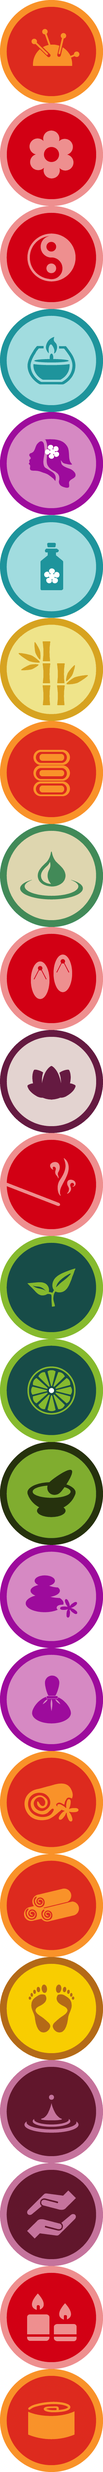
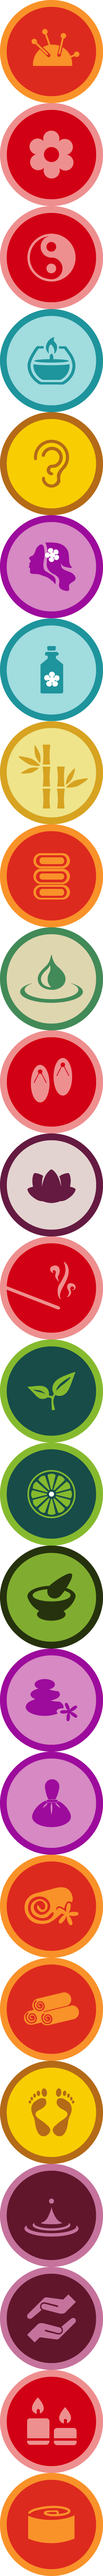
corregido icono pendiente y ajustados a todas las vistas

diff --git a/static/css/estilos.css b/static/css/estilos.css
@@ -1,1 +1,1 @@
-.btn{border:none;border-radius:4px;color:#fff;box-shadow:inset 0 -2px rgba(0,0,0,0.3);text-decoration:none;box-sizing:border-box;-webkit-box-sizing:border-box;-moz-box-sizing:border-box;transition:.2s;-webkit-transition:.2s;}.btn:hover{color:#fff}.btn-big{font-size:1.3em;font-weight:600;letter-spacing:-.01em;padding:.6em .75em}.btn-small{font-size:15px;font-weight:600;height:35px;letter-spacing:-.01em;padding:.6em .75em}.btn-Green{background:#7dcd40}.btn-Red{background:#ff4842}.btn-label{display:inline-block;margin:.7em 0 0 1em;padding:.7em 0 .7em 1em;border-left:dotted 1px #808080}.agujasIntradermicas-big,.amma-big,.ampuku-big,.aromaterapia-big,.champi-big,.cosmeticaNatural-big,.crecimientoPersonal-big,.cyriax-big,.drenajeLinfatico-big,.estiramientosThai-big,.floresBach-big,.icon-big,.kinergeticsReset-big,.kinesiologiaIntegrada-big,.naturopatia-big,.piedras-big,.pindas-big,.quiromasaje-big,.quiromasajeSuperior-big,.reflexologia-big,.registrosAkashicos-big,.reiki-big,.shiatsuFacial-big,.vendajeNeuromuscular-big{display:inline-block;background-repeat:no-repeat;background-image:url("../img/icons-big.png")}.agujasIntradermicas-big{background-position:0 0;width:300px;height:300px}.amma-big{background-position:0 -300px;width:300px;height:300px}.ampuku-big{background-position:0 -600px;width:300px;height:300px}.aromaterapia-big{background-position:0 -900px;width:300px;height:300px}.champi-big{background-position:0 -1200px;width:300px;height:300px}.cosmeticaNatural-big{background-position:0 -1500px;width:300px;height:300px}.crecimientoPersonal-big{background-position:0 -1800px;width:300px;height:300px}.cyriax-big{background-position:0 -2100px;width:300px;height:300px}.drenajeLinfatico-big{background-position:0 -2400px;width:300px;height:300px}.estiramientosThai-big{background-position:0 -2700px;width:300px;height:300px}.floresBach-big{background-position:0 -3000px;width:300px;height:300px}.icon-big{background-position:0 -3300px;width:300px;height:300px}.kinergeticsReset-big{background-position:0 -3600px;width:300px;height:300px}.kinesiologiaIntegrada-big{background-position:0 -3900px;width:300px;height:300px}.naturopatia-big{background-position:0 -4200px;width:300px;height:300px}.piedras-big{background-position:0 -4500px;width:300px;height:300px}.pindas-big{background-position:0 -4800px;width:300px;height:300px}.quiromasaje-big{background-position:0 -5100px;width:300px;height:300px}.quiromasajeSuperior-big{background-position:0 -5400px;width:300px;height:300px}.reflexologia-big{background-position:0 -5700px;width:300px;height:300px}.registrosAkashicos-big{background-position:0 -6000px;width:300px;height:300px}.reiki-big{background-position:0 -6300px;width:300px;height:300px}.shiatsuFacial-big{background-position:0 -6600px;width:300px;height:300px}.vendajeNeuromuscular-big{background-position:0 -6900px;width:300px;height:300px}.agujasIntradermicas-small,.amma-small,.ampuku-small,.aromaterapia-small,.champi-small,.cosmeticaNatural-small,.crecimientoPersonal-small,.cyriax-small,.drenajeLinfatico-small,.estiramientosThai-small,.floresBach-small,.kinergeticsReset-small,.kinesiologiaIntegrada-small,.moxibustion-small,.naturopatia-small,.piedras-small,.pindas-small,.quiromasaje-small,.quiromasajeSuperior-small,.reflexologia-small,.registrosAkashicos-small,.reiki-small,.shiatsuFacial-small,.vendajeNeuromuscular-small{display:inline-block;background-repeat:no-repeat;background-image:url("../img/icons-small.png")}.agujasIntradermicas-small{background-position:0 0;width:160px;height:160px}.amma-small{background-position:0 -160px;width:160px;height:160px}.ampuku-small{background-position:0 -320px;width:160px;height:160px}.aromaterapia-small{background-position:0 -480px;width:160px;height:160px}.champi-small{background-position:0 -640px;width:160px;height:160px}.cosmeticaNatural-small{background-position:0 -800px;width:160px;height:160px}.crecimientoPersonal-small{background-position:0 -960px;width:160px;height:160px}.cyriax-small{background-position:0 -1120px;width:160px;height:160px}.drenajeLinfatico-small{background-position:0 -1280px;width:160px;height:160px}.estiramientosThai-small{background-position:0 -1440px;width:160px;height:160px}.floresBach-small{background-position:0 -1600px;width:160px;height:160px}.kinergeticsReset-small{background-position:0 -1760px;width:160px;height:160px}.kinesiologiaIntegrada-small{background-position:0 -1920px;width:160px;height:160px}.moxibustion-small{background-position:0 -2080px;width:160px;height:160px}.naturopatia-small{background-position:0 -2240px;width:160px;height:160px}.piedras-small{background-position:0 -2400px;width:160px;height:160px}.pindas-small{background-position:0 -2560px;width:160px;height:160px}.quiromasaje-small{background-position:0 -2720px;width:160px;height:160px}.quiromasajeSuperior-small{background-position:0 -2880px;width:160px;height:160px}.reflexologia-small{background-position:0 -3040px;width:160px;height:160px}.registrosAkashicos-small{background-position:0 -3200px;width:160px;height:160px}.reiki-small{background-position:0 -3360px;width:160px;height:160px}.shiatsuFacial-small{background-position:0 -3520px;width:160px;height:160px}.vendajeNeuromuscular-small{background-position:0 -3680px;width:160px;height:160px}.Newsletter{padding:30px 0}.Newsletter-formTitle{font-family:arial;display:inline-block;max-width:50%;vertical-align:top;font-size:1.125em;font-size:400;margin:0;padding:0 15px 0 84px;box-sizing:border-box;-webkit-box-sizing:border-box;-moz-box-sizing:border-box}.Newsletter-formContainer{display:inline-block;vertical-align:top;font-size:0}.Newsletter-input{height:37px;font-size:13px;width:32%;margin-top:10px;margin-right:3%;box-sizing:border-box;-webkit-box-sizing:border-box;-moz-box-sizing:border-box}.input-A{background:#e9e7e3;border-radius:5px;border:1px solid #c9c9c9;color:#8d8d8d;padding:0 15px}.Newsletter-inputsSubmit{width:30%}.u-wrapper{margin:0 auto;padding:0 15px;max-width:1000px;box-sizing:border-box;-webkit-box-sizing:border-box;-moz-box-sizing:border-box;position:relative}.u-clearfix{zoom:1}@font-face{font-family:'icomoon';src:url("../fonts/icomoon.eot?-vup9ry");src:url("../fonts/icomoon.eot?#iefix-vup9ry") format('embedded-opentype');font-weight:normal;font-style:normal}@font-face{font-family:'icomoon';src:url("../fonts/icomoon.woff?-vup9ry") format('woff');font-weight:normal;font-style:normal}@font-face{font-family:'icomoon';src:url("../fonts/icomoon.ttf?-vup9ry") format('truetype');font-weight:normal;font-style:normal}@font-face{font-family:'icomoon';src:url("../fonts/icomoon.svg?-vup9ry#icomoon") format('svg');font-weight:normal;font-style:normal}.paypal:before{font-family:icomoon;content:"\e604"}.icon-window:before{font-family:icomoon;content:"\e606"}.icon-pencil:before{font-family:icomoon;content:"\e604"}.icon-award-fill:before{font-family:icomoon;content:"\e601"}.icon-pin-alt:before{font-family:icomoon;content:"\e602"}.icon-alarm:before{font-family:icomoon;content:"\e950"}.icon-happy:before{font-family:icomoon;content:"\e9df"}.icon-plus:before{font-family:icomoon;content:"\ea0a"}.icon-box:before{font-family:icomoon;content:"\e608"}.icon-school:before{font-family:icomoon;content:"\e607"}.icon-menu:before{font-family:icomoon;content:"\e120"}.icon-phone:before{font-family:icomoon;content:"\f095"}.icon-envelope:before{font-family:icomoon;content:"\f0e0"}.icon-calendar-o:before{font-family:icomoon;content:"\f133"}.icon-group:before{font-family:icomoon;content:"\e603"}.icon-star:before{font-family:icomoon;content:"\f005"}.icon-youtube4:before{font-family:icomoon;content:"\ea9a"}.icon-twitter:before{font-family:icomoon;content:"\f099"}.icon-facebook:before{font-family:icomoon;content:"\f09a"}body{font-family:'Open Sans',sans-serif;color:#292929;font-smoothing:antialiased;-webkit-font-smoothing:antialiased}a:hover{color:#81ae2f}.Header-container{background:#716b5c;height:80px}.Header-logo{background:url("../img/logoNav-small.png");background-repeat:no-repeat;background-position:0;width:80px;height:80px;background-size:80px 60px}.MainMenu-icon{font-size:2.5em;display:inline-block;position:absolute;top:10px;right:15px}.icon-menu{float:right;color:#fff;}.icon-menu:before{font-family:icomoon}.MainMenu-container{background:#262629;text-align:center;padding:10px 0;margin:0}.MainMenu-option{display:inline-block;width:100%;padding:15px 0}.MainMenu-link{color:#fff;text-decoration:none;font-weight:600}.MainMenu,.MainSection-message{display:none}.MainSection{background:url("../img/hero/home_small.jpg");background-repeat:no-repeat;background-position:-400px top;background-size:cover;padding:60px 0 80px 0}.MainSection-title{display:inline-block;color:#fff;font-weight:600;text-shadow:1px 1px 2px rgba(0,0,0,0.5);margin:0;padding:70px 0 40px 0;font-size:1.68em;line-height:1.4em}.MainSection-cta{display:inline-block}.NextEvent{background:#e9e7e3;padding:2em 0;overflow:hidden}.NextEvent-date{vertical-align:top;display:inline-block;width:15%;text-align:center;padding:0 0 0 0}.NextEvent-dateMonth{font-size:1.3em}.NextEvent-dateDay{font-size:2.75em;font-weight:600;line-height:1em}.NextEvent-content{display:inline-block;padding:0 0 0 1em;width:80%}.NextEvent-label{background:#e34939;color:#fff;padding:.2em .3em}.NextEvent-title{font-size:1.125em;font-weight:600;line-height:1em;margin:.5em 0 .5em 0}.saberMasSpan{color:#e34939;font-weight:600;text-decoration:underline !important}.NextEvent-detail{padding:1em 0 0 0;display:none}.NextEvent-description{margin:0}.CourseBanner{padding:1.875em 0}.CourseBanner-title{font-size:1.5em;text-align:center;line-height:1.3em;font-weight:600;margin:0 0 20px 0}.CourseBanner-description{text-align:center;margin:0}.CourseList{padding:35px 0}.CourseList-list{padding:0}.CourseList-course{position:relative;display:inline-block;border-bottom:1px solid rgba(0,0,0,0.3);width:100%;padding:25px 0 35px 0}.CourseList-courseData{display:inline-block;position:absolute;top:-20px}.CourseList-courseInfo{display:inline-block;margin:0 0 0 80px}.CourseList-courseTitle{font-size:1.315em;font-weight:600;line-height:1.2em;margin:0 0 .5em 0}.CourseList-courseGoblalLink{position:absolute;top:0;right:0;bottom:0;left:0}.saberMas{color:#e34939;font-weight:600;display:block}.CourseList-courseLink{color:#e34939;font-weight:600;display:block;margin:1em 0 0 0;width:140px}.agujasIntradermicas-small,.amma-small,.ampuku-small,.aromaterapia-small,.champi-small,.cosmeticaNatural-small,.crecimientoPersonal-small,.cyriax-small,.drenajeLinfatico-small,.estiramientosThai-small,.floresBach-small,.kinergeticsReset-small,.kinesiologiaIntegrada-small,.moxibustion-small,.naturopatia-small,.piedras-small,.pindas-small,.quiromasaje-small,.quiromasajeSuperior-small,.reflexologia-small,.registrosAkashicos-small,.reiki-small,.shiatsuFacial-small,.vendajeNeuromuscular-small{transform:scale(.4,.4);-ms-transform:scale(.4,.4);-webkit-transform:scale(.4,.4);display:inline-block;margin:0 0 0 -3em}.CourseList-courseLabel{display:inline-block;border-radius:5px;background:#e34939;color:#fff;font-weight:600;padding:.1em .5em}.c-naturopatia{background:#81ae2f}.c_tecnicasOrientales{background:#d30014}.c_crecimiento{background:#d9a420}.c_drenaje{background:#418b58}.c_ayurveda{background:#9e0b9d}.c_flores{background:#651a41}.c_aromaterapia{background:#1c959d}.c_tecnicasVibracionales{background:#60162c}.c_kinesiologia{background:#174c48}.c_reflexologia{background:#f3ca08}.destacado:before{font-family:icomoon;content:"\f005";color:#ffd500;font-size:5em;text-shadow:2px 2px 8px #4c4000;position:absolute;top:-45px;right:-12px}.Newsletter{display:none}.Footer{background:#262629;padding:20px 0 70px 0;color:#fff}.Footer-container{text-align:center}.Footer-column{display:inline-block;text-align:left;max-width:250px}.Footer-contactInfo{display:block;line-height:10px;}.Footer-contactInfo:before{position:relative;top:20px;margin:0 0 0 -30px;font-size:20px}.Footer-contactInfoDetail{margin:0}.Footer-logo{display:block;background:url("../img/logoNav-small.png");background-repeat:no-repeat;background-position:0;width:80px;height:80px;background-size:80px 60px}@media only screen and (min-width:321px) and (max-width:399px){.MainSection{background-position:-290px}.CourseBanner-title{font-size:2em}}@media only screen and (min-width:400px) and (max-width:700px){.MainSection{background-position:center}.NextEvent-date{width:3em}.NextEvent-title{font-size:1.5em}.CourseBanner-title{font-size:2em}}@media only screen and (min-width:701px) and (max-width:1000px){.Header-logo{background:url("../img/logoNav-big.png");background-repeat:no-repeat;background-position:0;width:320px;background-size:268px 60px}.MainSection-message{display:inline-block}.MainSection{background:url("../img/hero/home_big.jpg");background-position:center top;background-size:cover;padding:60px 0}.MainSection-title{padding:70px 80px 40px 0}.MainSection-message{display:none}.NextEvent-date{width:3em}.NextEvent-title{font-size:1.5em}.CourseBanner-title{font-size:2.562em}.CourseList-list{margin:0}.CourseList-course{width:48%;padding:50px 0;margin:0 0 0 20px;vertical-align:top;}.CourseList-course:nth-child(odd){margin-left:0}.Newsletter-formTitle{max-width:80%;font-size:1.5em;font-size:400;padding:0}.Newsletter{text-align:center;display:block}.Newsletter-inputs{padding:20px 0}}@media only screen and (min-width:1001px){.Header{background:rgba(19,20,10,0.3);height:80px;position:relative;z-index:3}.Header-logo{background:url("../img/logoNav-big.png");background-repeat:no-repeat;background-position:0;width:320px;background-size:268px 60px}.Header-container{background:none;position:relative;z-index:1}.MainMenu-icon{display:none}.MainMenu{display:block;margin:-55px auto 0 auto;padding:0 15px;max-width:1000px;position:relative;z-index:5}.MainMenu-container{background:none;text-align:right;padding:0;margin:0;position:relative;z-index:2}.MainMenu-option{display:inline-block;padding:0;width:7%;line-height:1.3em;margin:0 10px;text-align:left}.bordeLateral{border-right:2px solid #fff;padding:.7em 1.3em 0 0}.MainSection{background:url("../img/hero/home_extra.jpg");background-repeat:no-repeat;background-position:center top;background-size:cover;padding:140px 0 140px 0;position:relative;top:-80px;z-index:0}.MainSection-message{display:block;position:absolute;top:0;right:30px}.MainSection-title{width:65%}.MainSection-ctaContainer{display:block}.NextEvent{display:block;margin:-5em 0 0 0}.NextEvent-date{width:3em}.NextEvent-title{font-size:1.5em}.CourseBanner-title{font-size:2.562em}.CourseList-list{margin:0}.CourseList-course{width:31.5%;padding:50px 0;margin:0 0 0 20px;vertical-align:top;}.CourseList-course:nth-of-type(1){margin-left:0}.CourseList-course:nth-of-type(3n+1){margin-left:0}.Newsletter{display:block}}
+.btn{border:none;border-radius:4px;color:#fff;box-shadow:inset 0 -2px rgba(0,0,0,0.3);text-decoration:none;box-sizing:border-box;-webkit-box-sizing:border-box;-moz-box-sizing:border-box;transition:.2s;-webkit-transition:.2s;}.btn:hover{color:#fff}.btn-big{font-size:1.3em;font-weight:600;letter-spacing:-.01em;padding:.6em .75em}.btn-small{font-size:15px;font-weight:600;height:35px;letter-spacing:-.01em;padding:.6em .75em}.btn-Green{background:#7dcd40}.btn-Red{background:#ff4842}.btn-label{display:inline-block;margin:.7em 0 0 1em;padding:.7em 0 .7em 1em;border-left:dotted 1px #808080}.agujasIntradermicas-big,.amma-big,.ampuku-big,.aromaterapia-big,.auriculotarapia-big,.champi-big,.cosmeticaNatural-big,.crecimientoPersonal-big,.cyriax-big,.drenajeLinfatico-big,.estiramientosThai-big,.floresBach-big,.icon-big,.kinergeticsReset-big,.kinesiologiaIntegrada-big,.naturopatia-big,.piedras-big,.pindas-big,.quiromasaje-big,.quiromasajeSuperior-big,.reflexologia-big,.registrosAkashicos-big,.reiki-big,.shiatsuFacial-big,.vendajeNeuromuscular-big{display:inline-block;background-repeat:no-repeat;background-image:url("../img/icons-big.png")}.agujasIntradermicas-big{background-position:0 0;width:300px;height:300px}.amma-big{background-position:0 -300px;width:300px;height:300px}.ampuku-big{background-position:0 -600px;width:300px;height:300px}.aromaterapia-big{background-position:0 -900px;width:300px;height:300px}.auriculotarapia-big{background-position:0 -1200px;width:300px;height:300px}.champi-big{background-position:0 -1500px;width:300px;height:300px}.cosmeticaNatural-big{background-position:0 -1800px;width:300px;height:300px}.crecimientoPersonal-big{background-position:0 -2100px;width:300px;height:300px}.cyriax-big{background-position:0 -2400px;width:300px;height:300px}.drenajeLinfatico-big{background-position:0 -2700px;width:300px;height:300px}.estiramientosThai-big{background-position:0 -3000px;width:300px;height:300px}.floresBach-big{background-position:0 -3300px;width:300px;height:300px}.icon-big{background-position:0 -3600px;width:300px;height:300px}.kinergeticsReset-big{background-position:0 -3900px;width:300px;height:300px}.kinesiologiaIntegrada-big{background-position:0 -4200px;width:300px;height:300px}.naturopatia-big{background-position:0 -4500px;width:300px;height:300px}.piedras-big{background-position:0 -4800px;width:300px;height:300px}.pindas-big{background-position:0 -5100px;width:300px;height:300px}.quiromasaje-big{background-position:0 -5400px;width:300px;height:300px}.quiromasajeSuperior-big{background-position:0 -5700px;width:300px;height:300px}.reflexologia-big{background-position:0 -6000px;width:300px;height:300px}.registrosAkashicos-big{background-position:0 -6300px;width:300px;height:300px}.reiki-big{background-position:0 -6600px;width:300px;height:300px}.shiatsuFacial-big{background-position:0 -6900px;width:300px;height:300px}.vendajeNeuromuscular-big{background-position:0 -7200px;width:300px;height:300px}.agujasIntradermicas-small,.amma-small,.ampuku-small,.aromaterapia-small,.auriculoterapia-small,.champi-small,.cosmeticaNatural-small,.crecimientoPersonal-small,.cyriax-small,.drenajeLinfatico-small,.estiramientosThai-small,.floresBach-small,.kinergeticsReset-small,.kinesiologiaIntegrada-small,.moxibustion-small,.naturopatia-small,.piedras-small,.pindas-small,.quiromasaje-small,.quiromasajeSuperior-small,.reflexologia-small,.registrosAkashicos-small,.reiki-small,.shiatsuFacial-small,.vendajeNeuromuscular-small{display:inline-block;background-repeat:no-repeat;background-image:url("../img/icons-small.png")}.agujasIntradermicas-small{background-position:0 0;width:160px;height:160px}.amma-small{background-position:0 -160px;width:160px;height:160px}.ampuku-small{background-position:0 -320px;width:160px;height:160px}.aromaterapia-small{background-position:0 -480px;width:160px;height:160px}.auriculoterapia-small{background-position:0 -640px;width:160px;height:160px}.champi-small{background-position:0 -800px;width:160px;height:160px}.cosmeticaNatural-small{background-position:0 -960px;width:160px;height:160px}.crecimientoPersonal-small{background-position:0 -1120px;width:160px;height:160px}.cyriax-small{background-position:0 -1280px;width:160px;height:160px}.drenajeLinfatico-small{background-position:0 -1440px;width:160px;height:160px}.estiramientosThai-small{background-position:0 -1600px;width:160px;height:160px}.floresBach-small{background-position:0 -1760px;width:160px;height:160px}.kinergeticsReset-small{background-position:0 -1920px;width:160px;height:160px}.kinesiologiaIntegrada-small{background-position:0 -2080px;width:160px;height:160px}.moxibustion-small{background-position:0 -2240px;width:160px;height:160px}.naturopatia-small{background-position:0 -2400px;width:160px;height:160px}.piedras-small{background-position:0 -2560px;width:160px;height:160px}.pindas-small{background-position:0 -2720px;width:160px;height:160px}.quiromasaje-small{background-position:0 -2880px;width:160px;height:160px}.quiromasajeSuperior-small{background-position:0 -3040px;width:160px;height:160px}.reflexologia-small{background-position:0 -3200px;width:160px;height:160px}.registrosAkashicos-small{background-position:0 -3360px;width:160px;height:160px}.reiki-small{background-position:0 -3520px;width:160px;height:160px}.shiatsuFacial-small{background-position:0 -3680px;width:160px;height:160px}.vendajeNeuromuscular-small{background-position:0 -3840px;width:160px;height:160px}.Newsletter{padding:30px 0}.Newsletter-formTitle{font-family:arial;display:inline-block;max-width:50%;vertical-align:top;font-size:1.125em;font-size:400;margin:0;padding:0 15px 0 84px;box-sizing:border-box;-webkit-box-sizing:border-box;-moz-box-sizing:border-box}.Newsletter-formContainer{display:inline-block;vertical-align:top;font-size:0}.Newsletter-input{height:37px;font-size:13px;width:32%;margin-top:10px;margin-right:3%;box-sizing:border-box;-webkit-box-sizing:border-box;-moz-box-sizing:border-box}.input-A{background:#e9e7e3;border-radius:5px;border:1px solid #c9c9c9;color:#8d8d8d;padding:0 15px}.Newsletter-inputsSubmit{width:30%}.u-wrapper{margin:0 auto;padding:0 15px;max-width:1000px;box-sizing:border-box;-webkit-box-sizing:border-box;-moz-box-sizing:border-box;position:relative}.u-clearfix{zoom:1}@font-face{font-family:'icomoon';src:url("../fonts/icomoon.eot?-vup9ry");src:url("../fonts/icomoon.eot?#iefix-vup9ry") format('embedded-opentype');font-weight:normal;font-style:normal}@font-face{font-family:'icomoon';src:url("../fonts/icomoon.woff?-vup9ry") format('woff');font-weight:normal;font-style:normal}@font-face{font-family:'icomoon';src:url("../fonts/icomoon.ttf?-vup9ry") format('truetype');font-weight:normal;font-style:normal}@font-face{font-family:'icomoon';src:url("../fonts/icomoon.svg?-vup9ry#icomoon") format('svg');font-weight:normal;font-style:normal}.paypal:before{font-family:icomoon;content:"\e604"}.icon-window:before{font-family:icomoon;content:"\e606"}.icon-pencil:before{font-family:icomoon;content:"\e604"}.icon-award-fill:before{font-family:icomoon;content:"\e601"}.icon-pin-alt:before{font-family:icomoon;content:"\e602"}.icon-alarm:before{font-family:icomoon;content:"\e950"}.icon-happy:before{font-family:icomoon;content:"\e9df"}.icon-plus:before{font-family:icomoon;content:"\ea0a"}.icon-box:before{font-family:icomoon;content:"\e608"}.icon-school:before{font-family:icomoon;content:"\e607"}.icon-menu:before{font-family:icomoon;content:"\e120"}.icon-phone:before{font-family:icomoon;content:"\f095"}.icon-envelope:before{font-family:icomoon;content:"\f0e0"}.icon-calendar-o:before{font-family:icomoon;content:"\f133"}.icon-group:before{font-family:icomoon;content:"\e603"}.icon-star:before{font-family:icomoon;content:"\f005"}.icon-youtube4:before{font-family:icomoon;content:"\ea9a"}.icon-twitter:before{font-family:icomoon;content:"\f099"}.icon-facebook:before{font-family:icomoon;content:"\f09a"}body{font-family:'Open Sans',sans-serif;color:#292929;font-smoothing:antialiased;-webkit-font-smoothing:antialiased}a:hover{color:#81ae2f}.Header-container{background:#716b5c;height:80px}.Header-logo{background:url("../img/logoNav-small.png");background-repeat:no-repeat;background-position:0;width:80px;height:80px;background-size:80px 60px}.MainMenu-icon{font-size:2.5em;display:inline-block;position:absolute;top:10px;right:15px}.icon-menu{float:right;color:#fff;}.icon-menu:before{font-family:icomoon}.MainMenu-container{background:#262629;text-align:center;padding:10px 0;margin:0}.MainMenu-option{display:inline-block;width:100%;padding:15px 0}.MainMenu-link{color:#fff;text-decoration:none;font-weight:600}.MainMenu,.MainSection-message{display:none}.MainSection{background:url("../img/hero/home_small.jpg");background-repeat:no-repeat;background-position:-400px top;background-size:cover;padding:60px 0 80px 0}.MainSection-title{display:inline-block;color:#fff;font-weight:600;text-shadow:1px 1px 2px rgba(0,0,0,0.5);margin:0;padding:70px 0 40px 0;font-size:1.68em;line-height:1.4em}.MainSection-cta{display:inline-block}.NextEvent{background:#e9e7e3;padding:2em 0;overflow:hidden}.NextEvent-date{vertical-align:top;display:inline-block;width:15%;text-align:center;padding:0 0 0 0}.NextEvent-dateMonth{font-size:1.3em}.NextEvent-dateDay{font-size:2.75em;font-weight:600;line-height:1em}.NextEvent-content{display:inline-block;padding:0 0 0 1em;width:80%}.NextEvent-label{background:#e34939;color:#fff;padding:.2em .3em}.NextEvent-title{font-size:1.125em;font-weight:600;line-height:1em;margin:.5em 0 .5em 0}.saberMasSpan{color:#e34939;font-weight:600;text-decoration:underline !important}.NextEvent-detail{padding:1em 0 0 0;display:none}.NextEvent-description{margin:0}.CourseBanner{padding:1.875em 0}.CourseBanner-title{font-size:1.5em;text-align:center;line-height:1.3em;font-weight:600;margin:0 0 20px 0}.CourseBanner-description{text-align:center;margin:0}.CourseList{padding:35px 0}.CourseList-list{padding:0}.CourseList-course{position:relative;display:inline-block;border-bottom:1px solid rgba(0,0,0,0.3);width:100%;padding:25px 0 35px 0}.CourseList-courseData{display:inline-block;position:absolute;top:-20px}.CourseList-courseInfo{display:inline-block;margin:0 0 0 80px}.CourseList-courseTitle{font-size:1.315em;font-weight:600;line-height:1.2em;margin:0 0 .5em 0}.CourseList-courseGoblalLink{position:absolute;top:0;right:0;bottom:0;left:0}.saberMas{color:#e34939;font-weight:600;display:block}.CourseList-courseLink{color:#e34939;font-weight:600;display:block;margin:1em 0 0 0;width:140px}.agujasIntradermicas-small,.amma-small,.ampuku-small,.aromaterapia-small,.champi-small,.cosmeticaNatural-small,.crecimientoPersonal-small,.cyriax-small,.drenajeLinfatico-small,.estiramientosThai-small,.floresBach-small,.kinergeticsReset-small,.kinesiologiaIntegrada-small,.moxibustion-small,.naturopatia-small,.piedras-small,.pindas-small,.quiromasaje-small,.quiromasajeSuperior-small,.reflexologia-small,.auriculoterapia-smallf,.registrosAkashicos-small,.reiki-small,.shiatsuFacial-small,.vendajeNeuromuscular-small{transform:scale(.4,.4);-ms-transform:scale(.4,.4);-webkit-transform:scale(.4,.4);display:inline-block;margin:0 0 0 -3em}.CourseList-courseLabel{display:inline-block;border-radius:5px;background:#e34939;color:#fff;font-weight:600;padding:.1em .5em}.c-naturopatia{background:#81ae2f}.c_tecnicasOrientales{background:#d30014}.c_crecimiento{background:#d9a420}.c_drenaje{background:#418b58}.c_ayurveda{background:#9e0b9d}.c_flores{background:#651a41}.c_aromaterapia{background:#1c959d}.c_tecnicasVibracionales{background:#60162c}.c_kinesiologia{background:#174c48}.c_reflexologia{background:#f3ca08}.destacado:before{font-family:icomoon;content:"\f005";color:#ffd500;font-size:5em;text-shadow:2px 2px 8px #4c4000;position:absolute;top:-50px;right:-25px}.Newsletter{display:none}.Footer{background:#262629;padding:20px 0 70px 0;color:#fff}.Footer-container{text-align:center}.Footer-column{display:inline-block;text-align:left;max-width:250px}.Footer-contactInfo{display:block;line-height:10px;}.Footer-contactInfo:before{position:relative;top:20px;margin:0 0 0 -30px;font-size:20px}.Footer-contactInfoDetail{margin:0}.Footer-logo{display:block;background:url("../img/logoNav-small.png");background-repeat:no-repeat;background-position:0;width:80px;height:80px;background-size:80px 60px}@media only screen and (min-width:321px) and (max-width:399px){.MainSection{background-position:-290px}.CourseBanner-title{font-size:2em}}@media only screen and (min-width:400px) and (max-width:700px){.MainSection{background-position:center}.NextEvent-date{width:3em}.NextEvent-title{font-size:1.5em}.CourseBanner-title{font-size:2em}}@media only screen and (min-width:701px) and (max-width:1000px){.Header-logo{background:url("../img/logoNav-big.png");background-repeat:no-repeat;background-position:0;width:320px;background-size:268px 60px}.MainSection-message{display:inline-block}.MainSection{background:url("../img/hero/home_big.jpg");background-position:center top;background-size:cover;padding:60px 0}.MainSection-title{padding:70px 80px 40px 0}.MainSection-message{display:none}.NextEvent-date{width:3em}.NextEvent-title{font-size:1.5em}.CourseBanner-title{font-size:2.562em}.CourseList-list{margin:0}.CourseList-course{width:48%;padding:50px 0;margin:0 0 0 20px;vertical-align:top;}.CourseList-course:nth-child(odd){margin-left:0}.agujasIntradermicas-small,.amma-small,.ampuku-small,.aromaterapia-small,.champi-small,.cosmeticaNatural-small,.crecimientoPersonal-small,.cyriax-small,.drenajeLinfatico-small,.estiramientosThai-small,.floresBach-small,.kinergeticsReset-small,.kinesiologiaIntegrada-small,.moxibustion-small,.naturopatia-small,.piedras-small,.pindas-small,.quiromasaje-small,.quiromasajeSuperior-small,.reflexologia-small,.auriculoterapia-small,.registrosAkashicos-small,.reiki-small,.shiatsuFacial-small,.vendajeNeuromuscular-small{transform:scale(.45,.45);-ms-transform:scale(.45,.45);-webkit-transform:scale(.45,.45);display:inline-block;margin:0 0 0 -3em;position:relative;top:20px}.Newsletter-formTitle{max-width:80%;font-size:1.5em;font-size:400;padding:0}.Newsletter{text-align:center;display:block}.Newsletter-inputs{padding:20px 0}}@media only screen and (min-width:1001px){.Header{background:rgba(19,20,10,0.3);height:80px;position:relative;z-index:3}.Header-logo{background:url("../img/logoNav-big.png");background-repeat:no-repeat;background-position:0;width:320px;background-size:268px 60px}.Header-container{background:none;position:relative;z-index:1}.MainMenu-icon{display:none}.MainMenu{display:block;margin:-55px auto 0 auto;padding:0 15px;max-width:1000px;position:relative;z-index:5}.MainMenu-container{background:none;text-align:right;padding:0;margin:0;position:relative;z-index:2}.MainMenu-option{display:inline-block;padding:0;width:7%;line-height:1.3em;margin:0 10px;text-align:left}.bordeLateral{border-right:2px solid #fff;padding:.7em 1.3em 0 0}.MainSection{background:url("../img/hero/home_extra.jpg");background-repeat:no-repeat;background-position:center top;background-size:cover;padding:140px 0 140px 0;position:relative;top:-80px;z-index:0}.MainSection-message{display:block;position:absolute;top:0;right:30px}.MainSection-title{width:65%}.MainSection-ctaContainer{display:block}.NextEvent{display:block;margin:-5em 0 0 0}.NextEvent-date{width:3em}.NextEvent-title{font-size:1.5em}.CourseBanner-title{font-size:2.562em}.CourseList-list{margin:0}.CourseList-course{width:31.5%;padding:50px 0;margin:0 0 0 20px;vertical-align:top;}.CourseList-course:nth-of-type(1){margin-left:0}.CourseList-course:nth-of-type(3n+1){margin-left:0}agujasIntradermicas-small,.amma-small,.ampuku-small,.aromaterapia-small,.champi-small,.cosmeticaNatural-small,.crecimientoPersonal-small,.cyriax-small,.drenajeLinfatico-small,.estiramientosThai-small,.floresBach-small,.kinergeticsReset-small,.kinesiologiaIntegrada-small,.moxibustion-small,.naturopatia-small,.piedras-small,.pindas-small,.quiromasaje-small,.quiromasajeSuperior-small,.reflexologia-small,.auriculoterapia-small,.registrosAkashicos-small,.reiki-small,.shiatsuFacial-small,.vendajeNeuromuscular-small{transform:scale(.45,.45);-ms-transform:scale(.45,.45);-webkit-transform:scale(.45,.45);display:inline-block;margin:0 0 0 -3em;position:relative;top:20px}.Newsletter{display:block}}

diff --git a/index.html b/index.html
@@ -151,7 +151,7 @@
             </li>
             <li class="CourseList-course" >
               <!-- <a href="/" class="CourseList-courseGoblalLink"></a> -->
-              <div class="CourseList-courseData"><div class="reflexologia-small" width='80px' height='80px'></div></div>
+              <div class="CourseList-courseData"><div class="auriculoterapia-small" width='80px' height='80px'></div></div>
               <div class="CourseList-courseInfo">
                 <h3 class="CourseList-courseTitle">Auriculoterapia</h3>
                 <div class="CourseList-courseLabel c_reflexologia">Reflexología</div>
